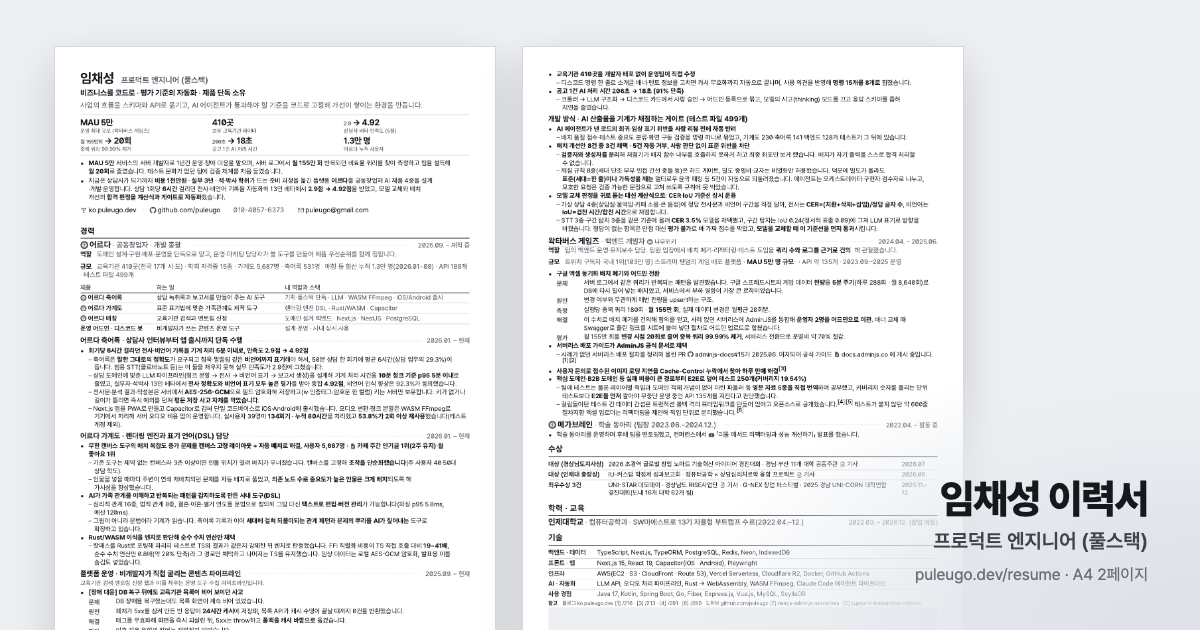
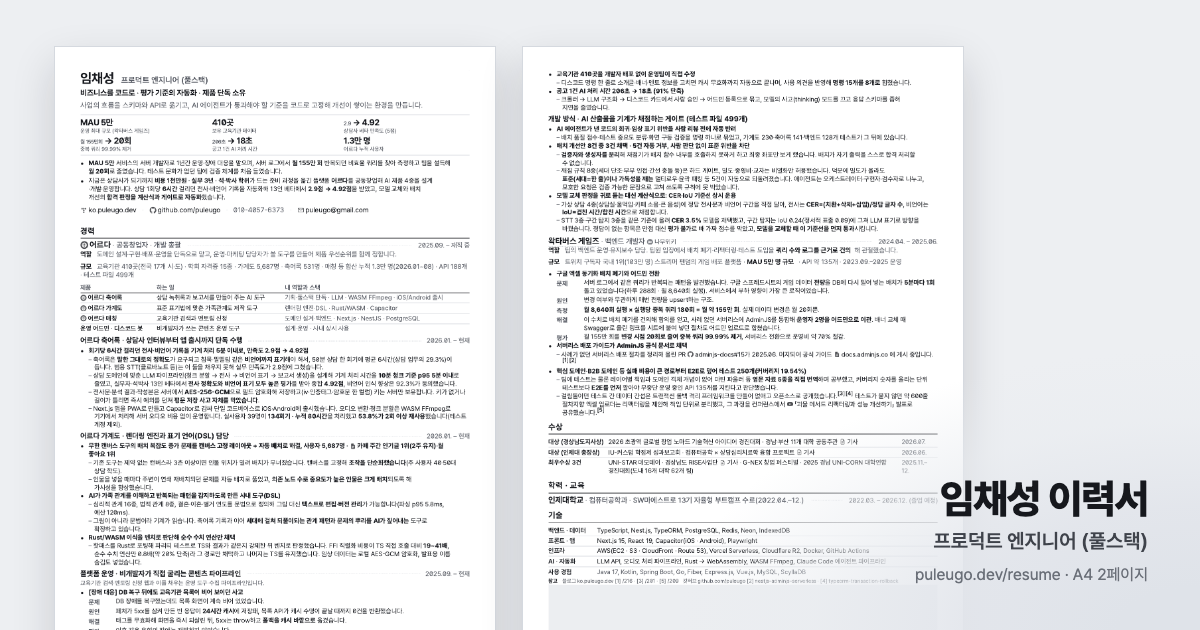
fix: 하위 항목 2건 제거하고 발표 영상을 리팩터링 이력으로 이관
- 이미지 로딩 지연 항목 제거
- 메가브레인 학술 동아리 이력 제거
- 컨퍼런스 발표 영상은 왁타버스 엑셀 업로더 리팩터링 문장으로 이동
- 각주 번호 재정렬(6개 → 5개)

Claude-Session: https://claude.ai/code/session_01XPm84a9ZQrw2tx4vvMDftN

Changed region(s): [[0.4317, 0.573, 0.8017, 0.9651], [0.4933, 0.4524, 0.6783, 0.5127], [0.7092, 0.4222, 0.7708, 0.4524]]

diff --git a/resume/index.html b/resume/index.html
@@ -462,23 +462,12 @@
 				<ul class="how">
 					<li>사례가 없던 서버리스 배포 절차를 정리해 올린 PR <a href="https://github.com/SoftwareBrothers/adminjs-docs/pull/15" target="_blank" rel="noopener" data-card="https://github.com/SoftwareBrothers/adminjs-docs/pull/15"><svg class="icon"><use href="#i-github"/></svg>adminjs-docs#15</a>가 2025.06. 머지되어 공식 가이드 <a href="https://docs.adminjs.co/deployment/serverless" data-preview data-tip="AdminJS 공식 문서 미리보기 (Deployment / Serverless)" data-card="https://docs.adminjs.co/deployment/serverless"><svg class="icon"><use href="#i-doc-b"/></svg>docs.adminjs.co</a> 에 게시 중입니다.<sup class="footnote"><a href="https://ko.puleugo.dev/216" data-preview data-tip="블로그 「[NestJS] AdminJS 프로덕션 배포하기」" data-card="https://ko.puleugo.dev/216">1</a></sup><sup class="footnote"><a href="https://github.com/puleugo/nestjs-adminjs-serverless" target="_blank" rel="noopener" data-tip="예제 코드 nestjs-adminjs-serverless. 새 탭에서 열립니다" data-card="https://github.com/puleugo/nestjs-adminjs-serverless">2</a></sup></li>
 				</ul></li>
-		<li class="task"><b>사용자 문의로 접수된 이미지 로딩 지연을 Cache-Control 누락에서 찾아 <b>하루 만에</b> 해결<sup class="footnote"><a href="https://ko.puleugo.dev/213" data-preview data-tip="블로그 「[CloudFlare] 이미지 로드 속도 향상하기」" data-card="https://ko.puleugo.dev/213">3</a></sup></b></li>
 		<li class="task"><b>핵심 도메인·B2B 도메인 등 <b>실패 비용이 큰 경로부터 E2E</b>로 덮어 테스트 250개(커버리지 19.54%)</b>
 				<ul class="how">
 					<li>팀에 테스트는 물론 레이어별 책임과 도메인 객체 개념이 없어 마틴 파울러 등 <b>영문 자료 5종을 직접 번역</b>하며 공부했고, 커버리지 숫자를 올리는 단위 테스트보다 <b>E2E를 먼저</b> 깔아야 무중단 운영 중인 API 135개를 지킨다고 판단했습니다.</li>
-					<li>걸림돌이던 테스트 간 데이터 간섭은 트랜잭션 롤백 격리 프레임워크를 만들어 없애고 오픈소스로 공개했습니다.<sup class="footnote"><a href="https://ko.puleugo.dev/201" data-preview data-tip="블로그 「[Node.js] 트랜잭션을 활용한 테스트 격리 환경 구현하기」" data-card="https://ko.puleugo.dev/201">4</a></sup><sup class="footnote"><a href="https://github.com/puleugo/typeorm-transaction-rollback" target="_blank" rel="noopener" data-tip="오픈소스 typeorm-transaction-rollback. 새 탭에서 열립니다" data-card="https://github.com/puleugo/typeorm-transaction-rollback">5</a></sup> 테스트가 붙지 않던 약 600줄 절차지향 엑셀 업로더는 리팩터링을 제안해 책임 단위로 분리했습니다.<sup class="footnote"><a href="https://ko.puleugo.dev/209" data-preview data-tip="블로그 「괴물 메서드 리팩터링과 성능개선하기」" data-card="https://ko.puleugo.dev/209">6</a></sup></li>
+					<li>걸림돌이던 테스트 간 데이터 간섭은 트랜잭션 롤백 격리 프레임워크를 만들어 없애고 오픈소스로 공개했습니다.<sup class="footnote"><a href="https://ko.puleugo.dev/201" data-preview data-tip="블로그 「[Node.js] 트랜잭션을 활용한 테스트 격리 환경 구현하기」" data-card="https://ko.puleugo.dev/201">3</a></sup><sup class="footnote"><a href="https://github.com/puleugo/typeorm-transaction-rollback" target="_blank" rel="noopener" data-tip="오픈소스 typeorm-transaction-rollback. 새 탭에서 열립니다" data-card="https://github.com/puleugo/typeorm-transaction-rollback">4</a></sup> 테스트가 붙지 않던 약 600줄 절차지향 엑셀 업로더는 리팩터링을 제안해 책임 단위로 분리했고, 그 과정을 컨퍼런스에서 <a href="https://www.youtube.com/watch?v=C2ns5fGUxz8" data-preview="https://www.youtube.com/embed/C2ns5fGUxz8" data-tip="유튜브 영상 「[메가콘 2024] 괴물 메서드 리팩터링과 성능개선하기」" data-card="https://www.youtube.com/watch?v=C2ns5fGUxz8"><svg class="icon"><use href="#i-youtube"/></svg>「괴물 메서드 리팩터링과 성능 개선하기」 발표</a>로 공유했습니다.<sup class="footnote"><a href="https://ko.puleugo.dev/209" data-preview data-tip="블로그 「괴물 메서드 리팩터링과 성능개선하기」" data-card="https://ko.puleugo.dev/209">5</a></sup></li>
 					
 				</ul></li>
-	</ul>
-</div>
-
-<div class="entry">
-	<div class="entry-head">
-		<h3><a href="https://megabrain.kr" data-preview data-tip="사이트 미리보기 · 메가브레인" data-card="https://megabrain.kr"><svg class="icon"><use href="#i-site-b"/></svg>메가브레인</a> <span class="role">· 학술 동아리 (팀장 2023.06.–2024.12.)</span></h3>
-		<span class="leader" aria-hidden="true"></span><span class="period">2022.04. – 활동 중</span>
-	</div>
-	<ul>
-		<li>학술 동아리를 운영하며 후배 팀을 멘토링했고, 컨퍼런스에서 <a href="https://www.youtube.com/watch?v=C2ns5fGUxz8" data-preview="https://www.youtube.com/embed/C2ns5fGUxz8" data-tip="유튜브 영상 「[메가콘 2024] 괴물 메서드 리팩터링과 성능개선하기」" data-card="https://www.youtube.com/watch?v=C2ns5fGUxz8"><svg class="icon"><use href="#i-youtube"/></svg>「괴물 메서드 리팩터링과 성능 개선하기」 발표</a>를 했습니다.</li>
 	</ul>
 </div>
 
@@ -512,7 +501,7 @@
 
 	<section class="references">
 		<b>참고</b>
-		<span class="reference-list">블로그 ko.puleugo.dev [1] /216 · [3] /213 · [4] /201 · [6] /209 &nbsp; 깃허브 github.com/puleugo [2] nestjs-adminjs-serverless · [5] typeorm-transaction-rollback</span>
+		<span class="reference-list">블로그 ko.puleugo.dev [1] /216 · [3] /201 · [5] /209 &nbsp; 깃허브 github.com/puleugo [2] nestjs-adminjs-serverless · [4] typeorm-transaction-rollback</span>
 	</section>
 </main>
 
